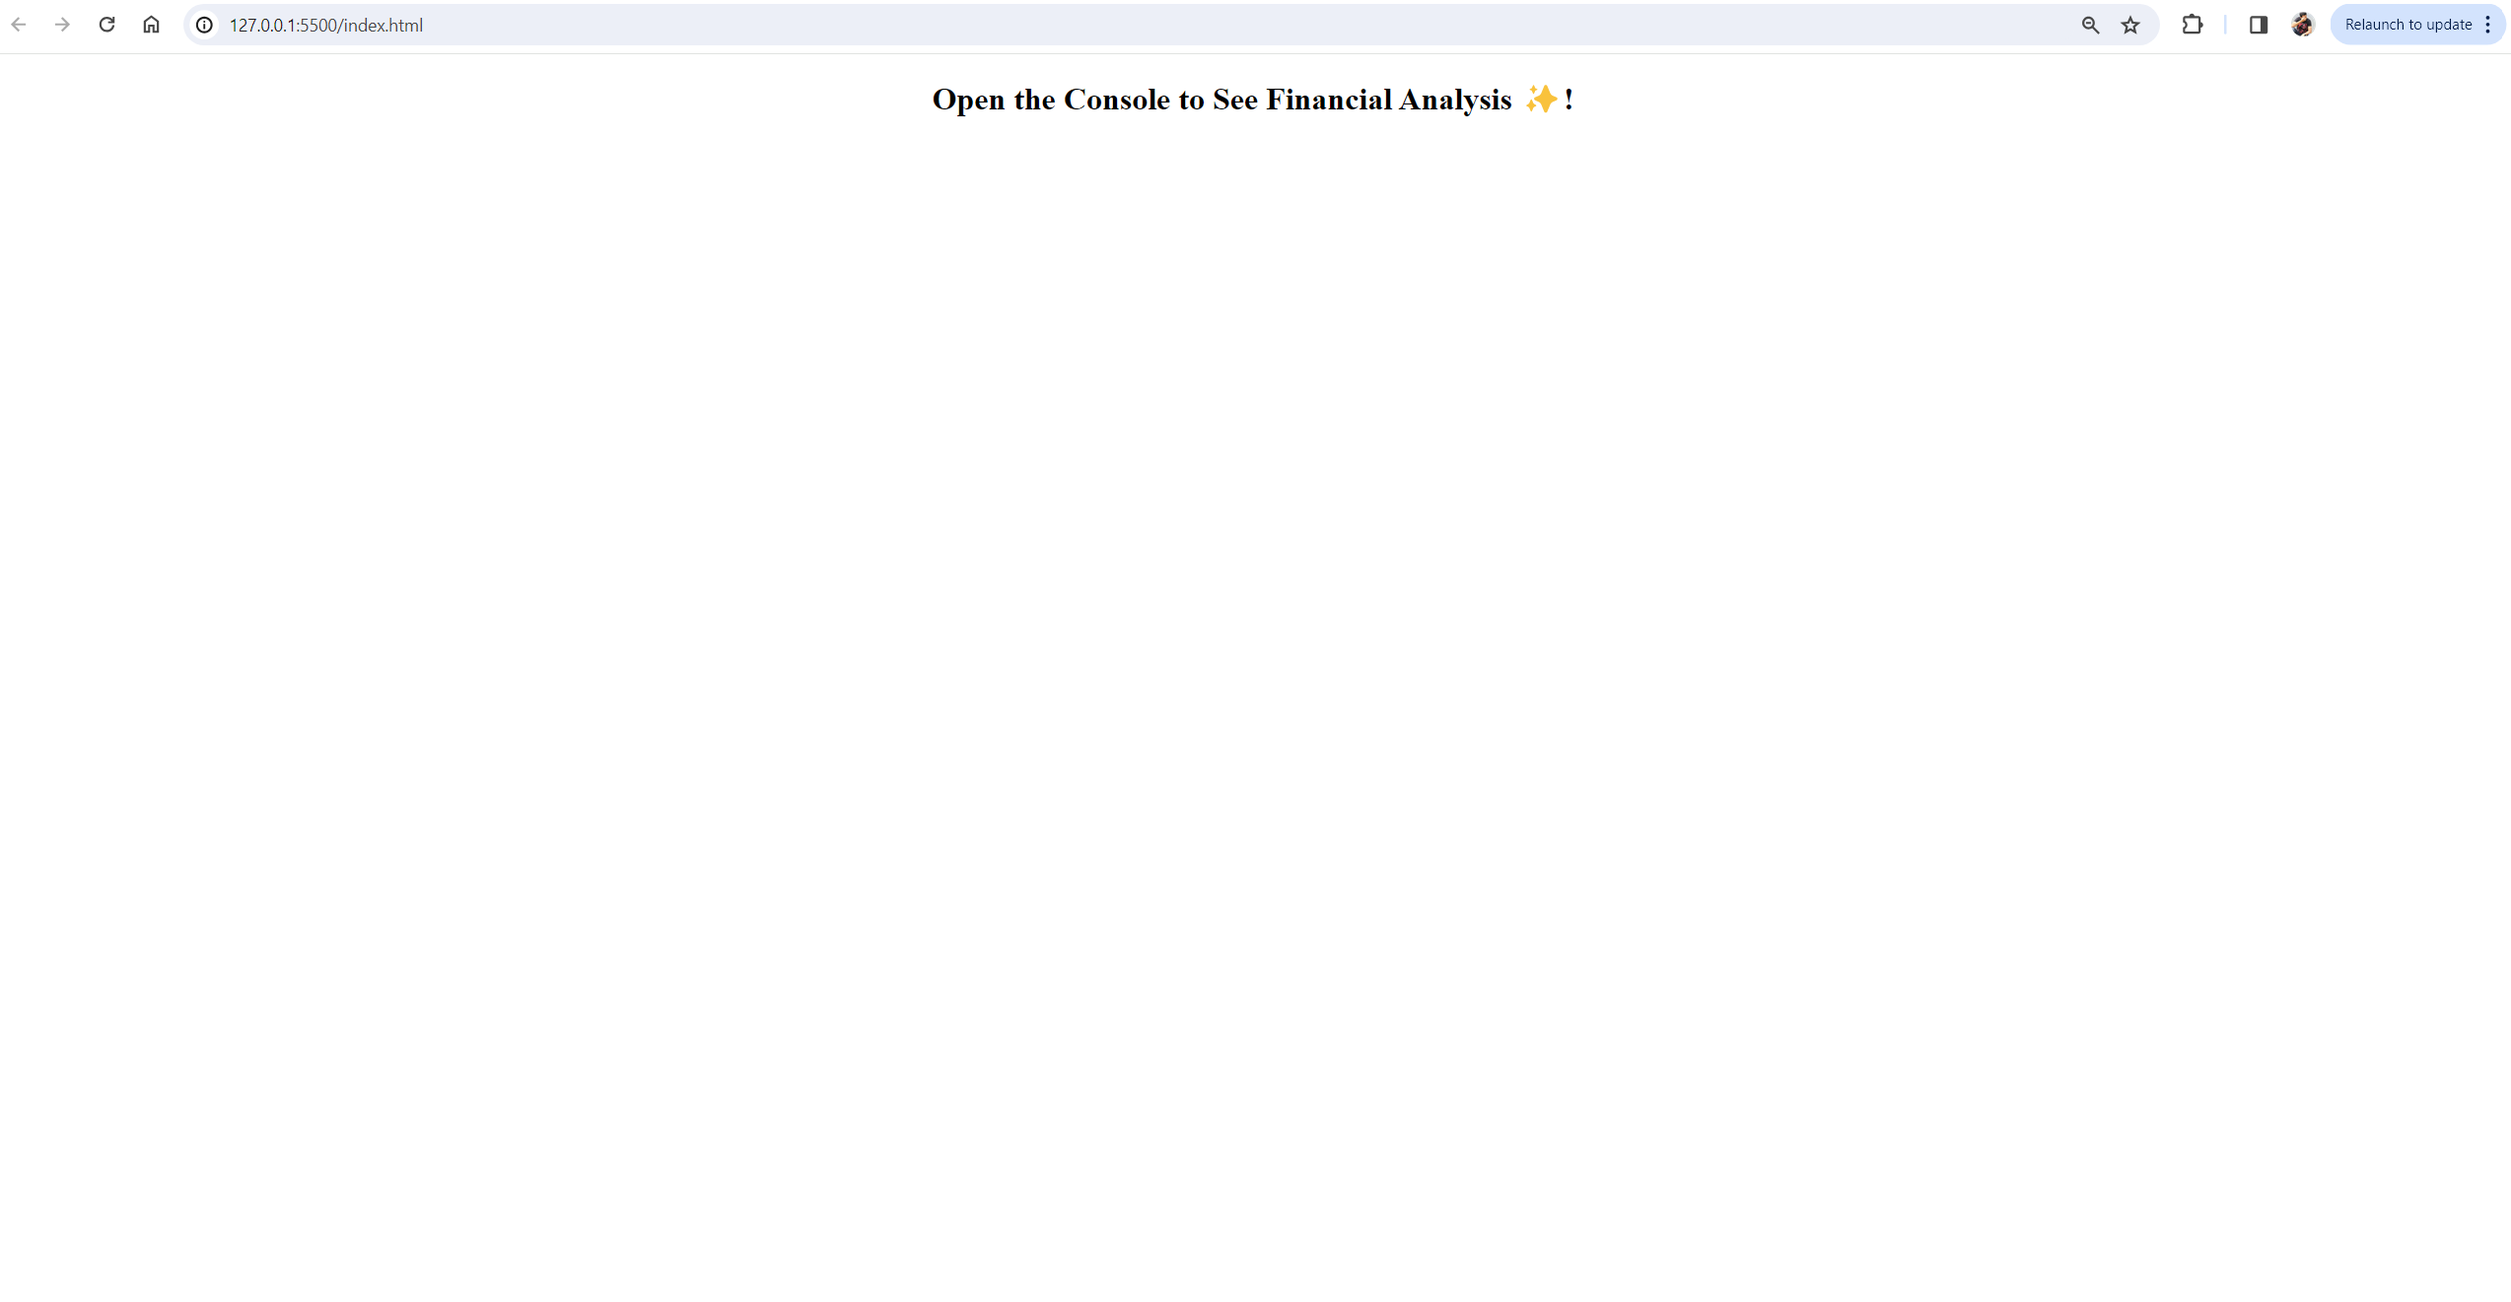
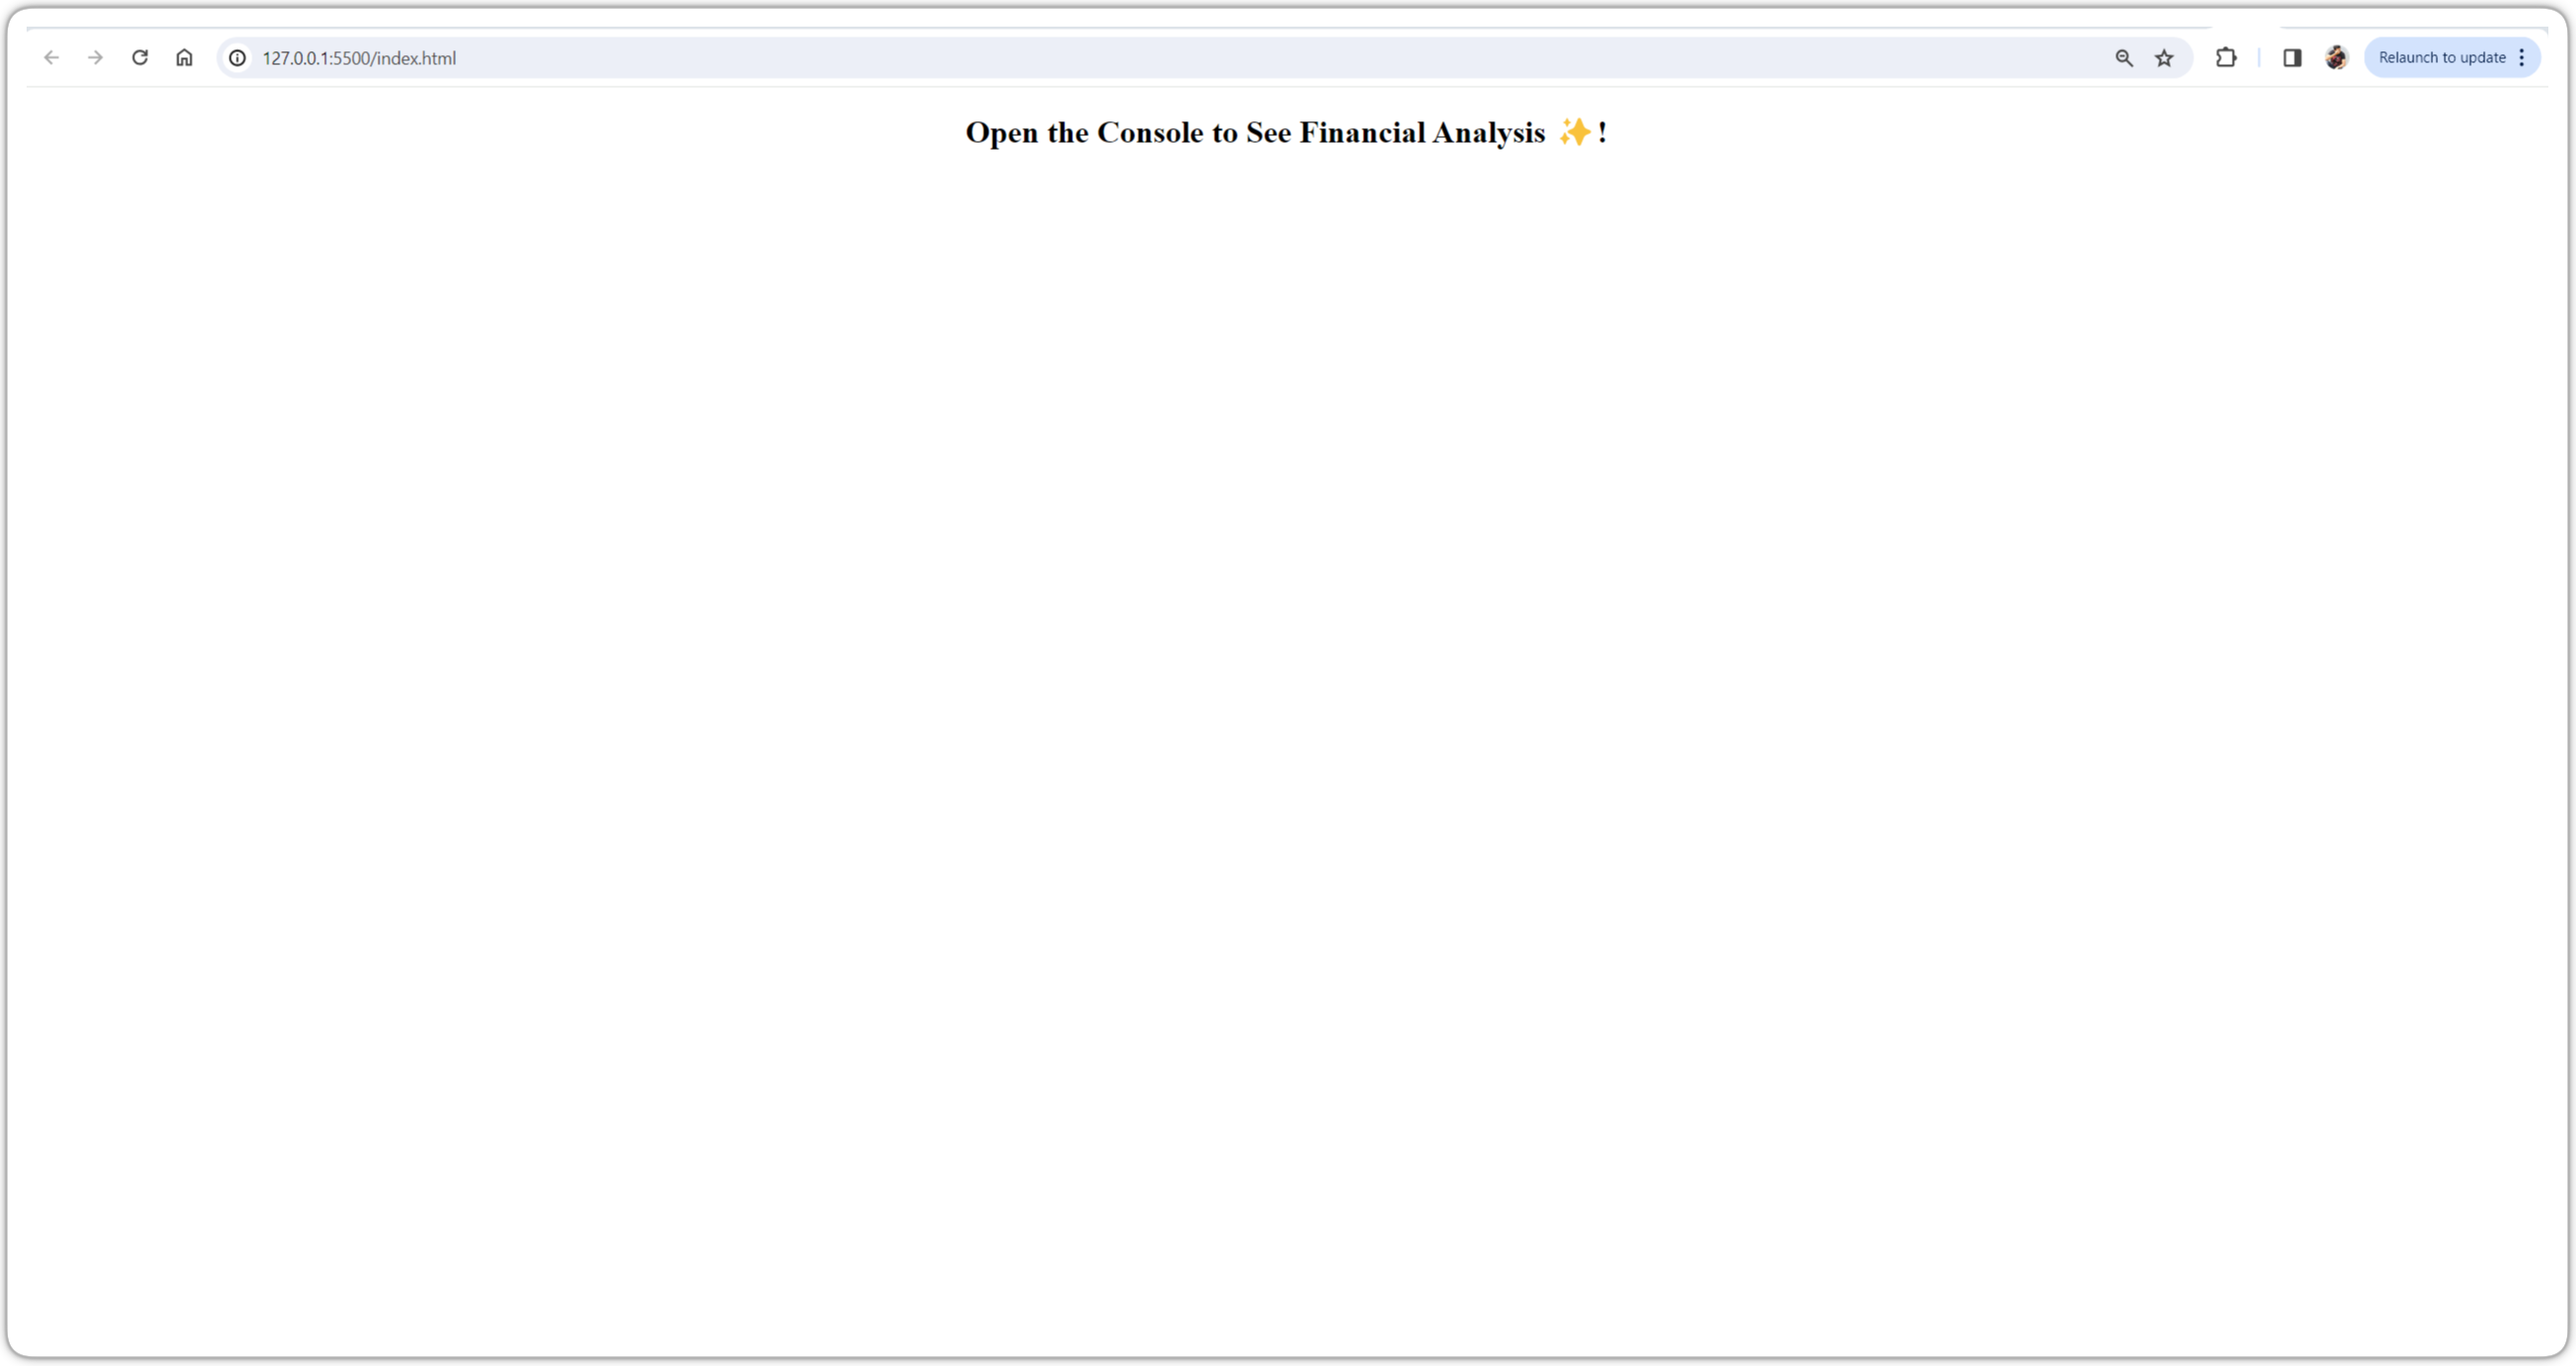
Added correct images to the README file

Changed region(s): [[0.0, 0.0, 1.0, 0.9932], [0.0, 0.9932, 0.9925, 1.0], [0.3722, 0.0621, 0.6203, 0.1241]]

diff --git a/README.md b/README.md
@@ -41,7 +41,7 @@ When we open the code in the browser, resulting analysis should look similar to 
 
 Main Page : ![Alt text](images/FinancialAnalysis1.png)
 
-Result Console : ![Alt text](images/FinancialAnalsysis2.png)
+Result Console : ![Alt text](images/FinancialAnalysis2.png)
 
 Complete page with console result: ![Alt text](images/FinancialAnalysis3.png)
 
